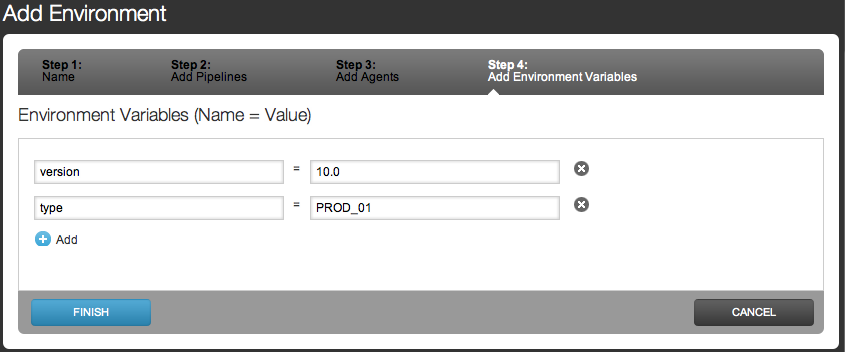
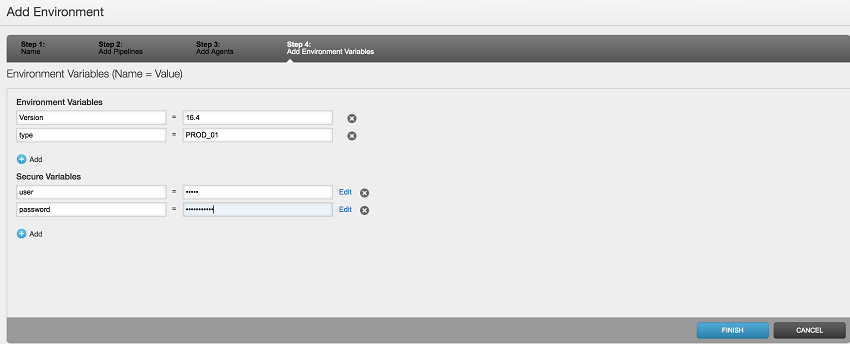
added new screen for secure environment variable (#24)
* added new screen for secure environment variable

diff --git a/configuration/managing_environments.md b/configuration/managing_environments.md
@@ -30,7 +30,7 @@ You can create an environment in the admin UI through the following steps. This 
 
 ![](../resources/images/env_agents.png)
 
--   Add one or more environment variables that need to be passed.
+-   Add one or more environment variables or secure environment variables that need to be passed.
 
 ![](../resources/images/env_env_variables.png)
 
